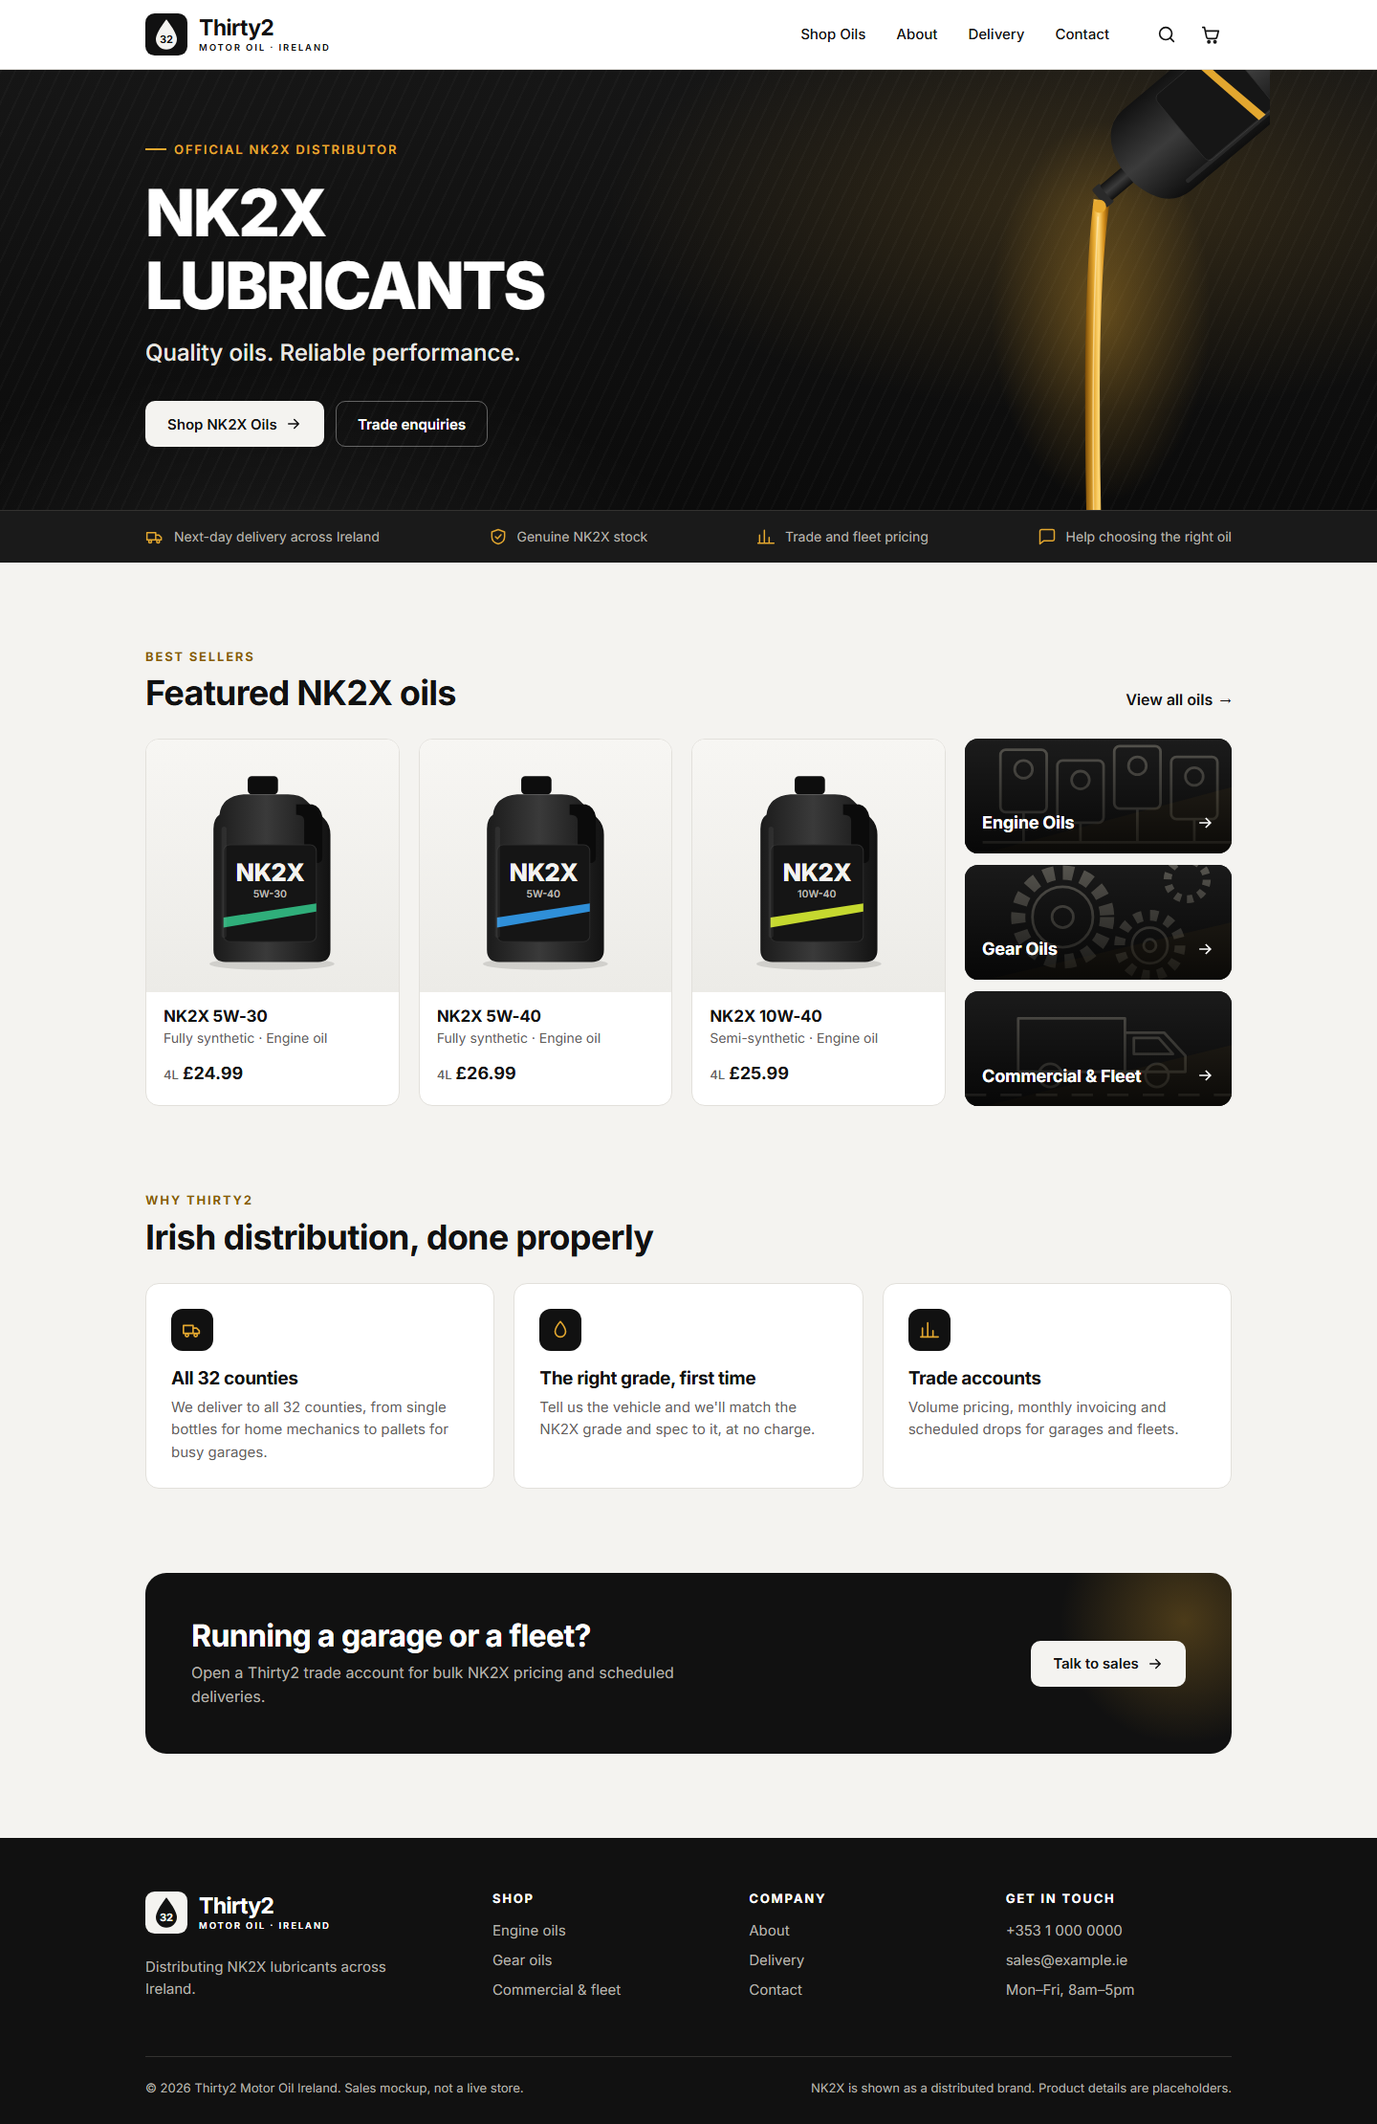
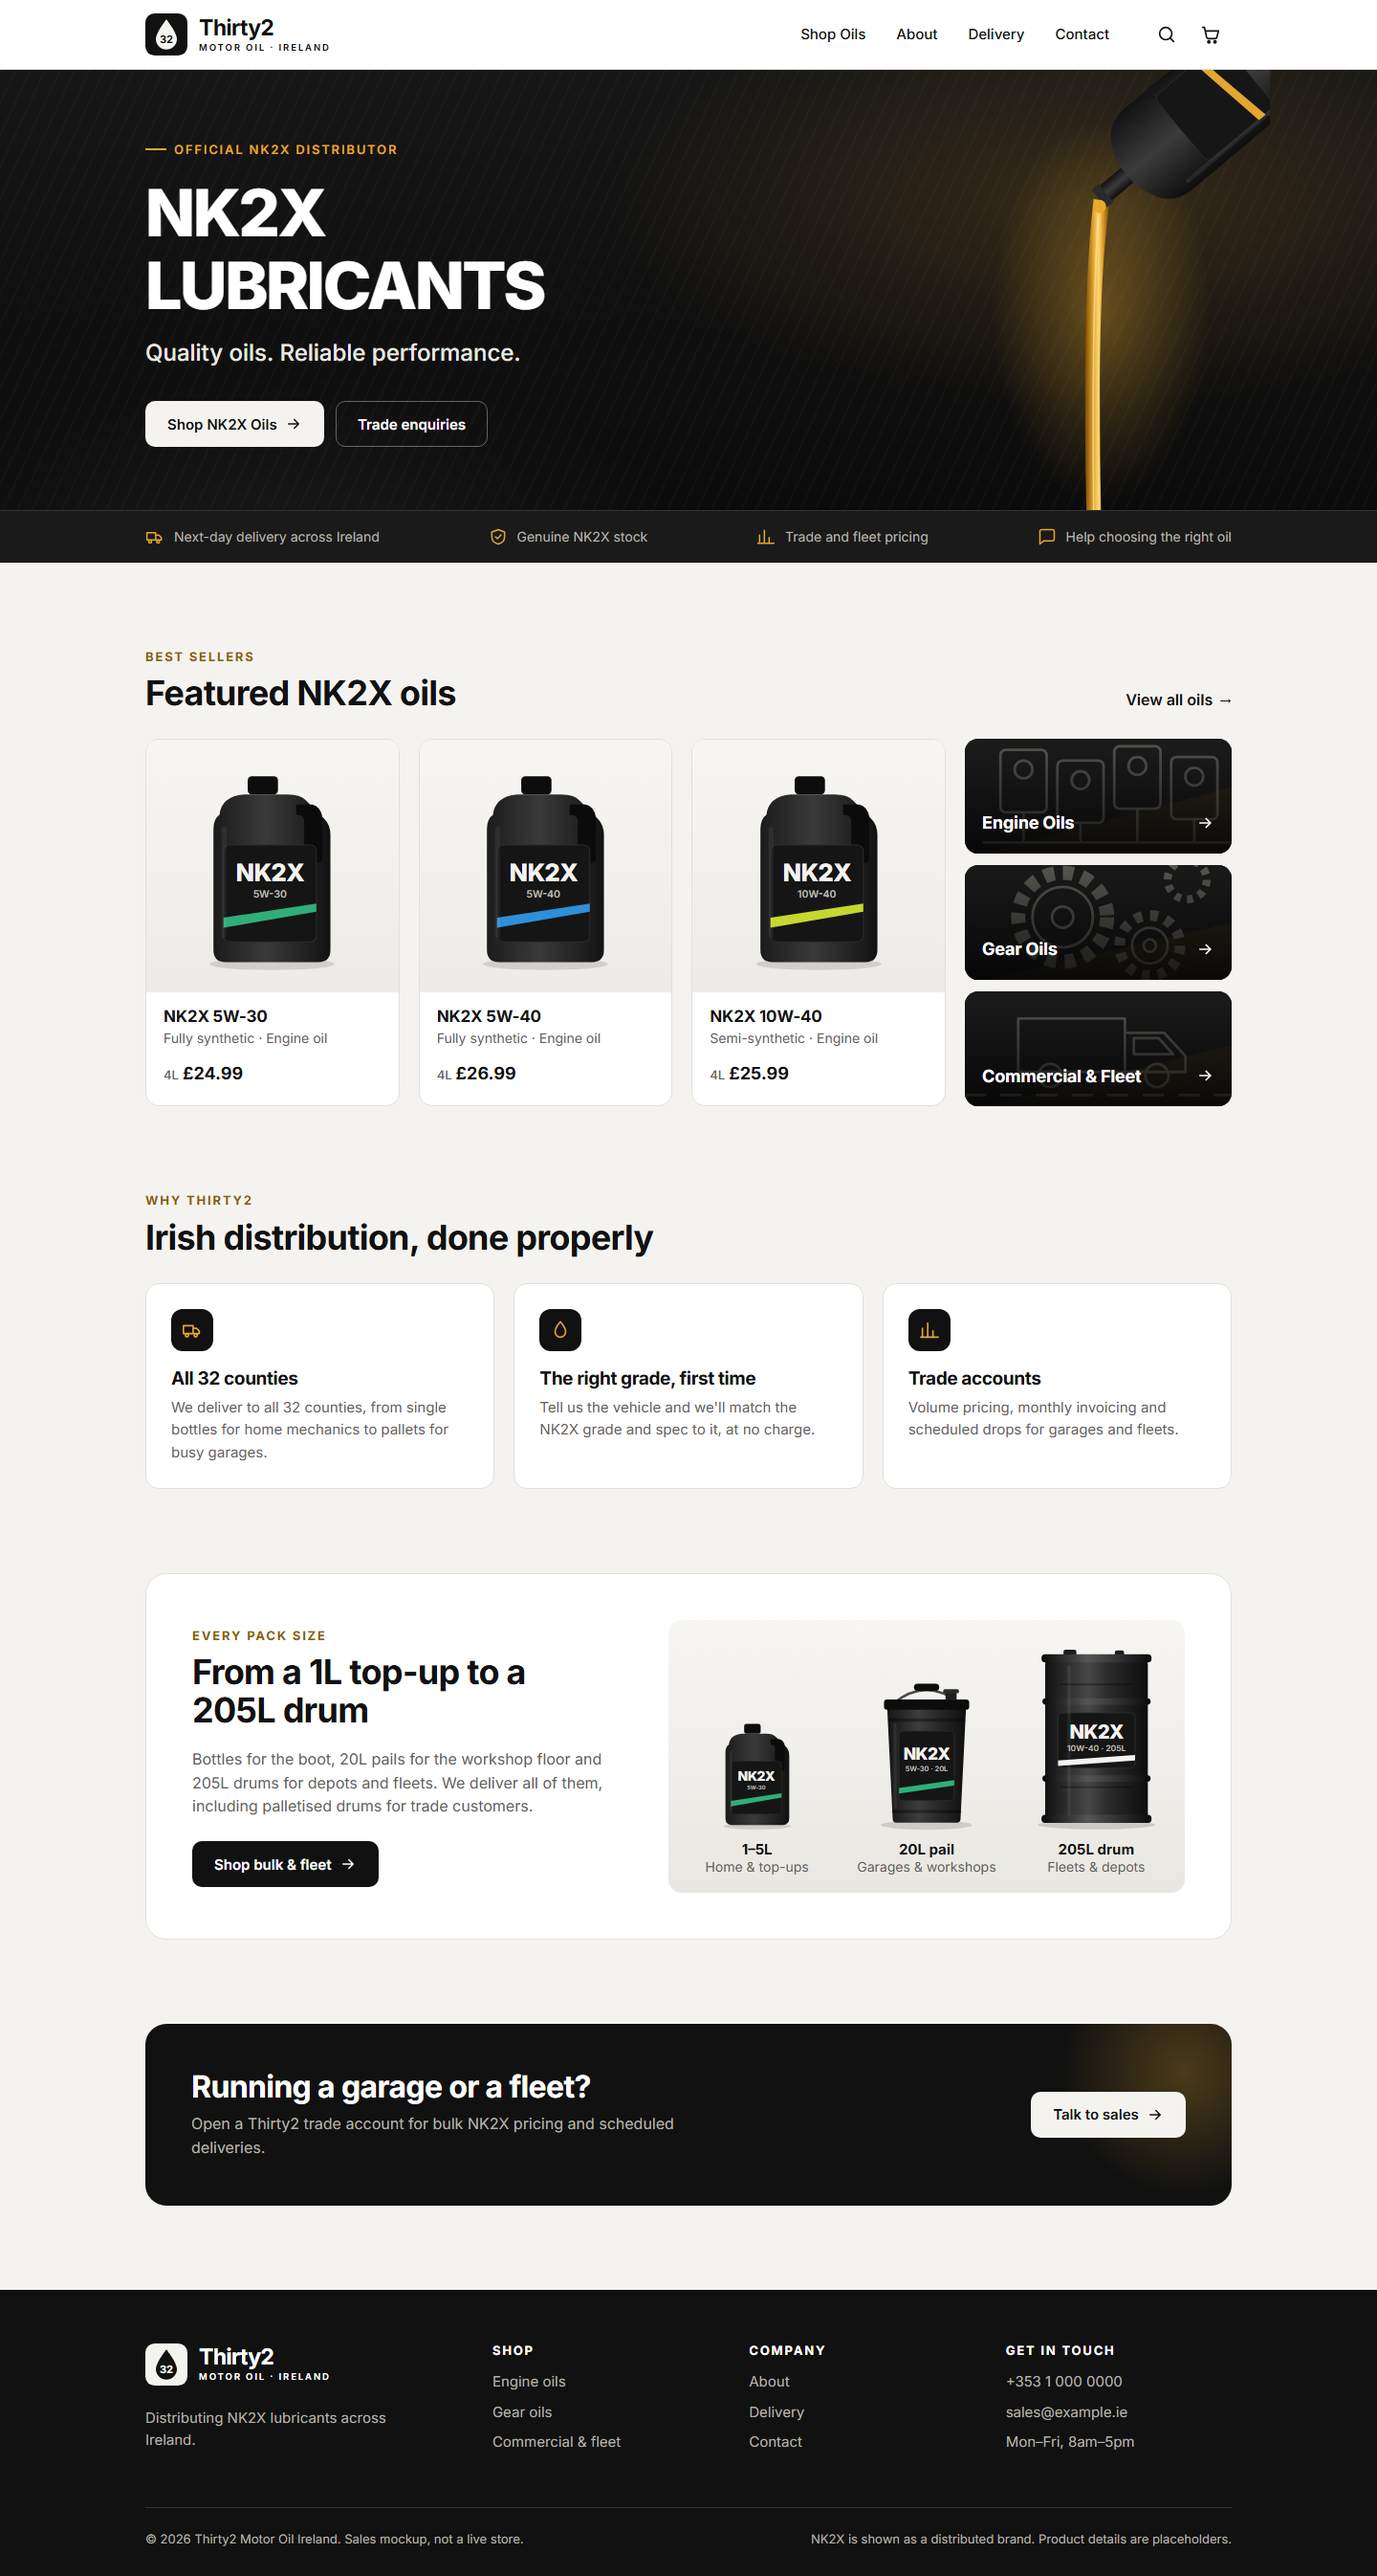
Add 20L pail and 205L drum illustrations
Original SVG pail and drum art alongside the existing jug. Product
pages swap the container image with the selected pack size, the cart
shows the matching container, the fleet oil card shows a drum, and the
homepage gains a "1L to 205L" pack-size lineup. Prices now use a
thousands separator (£1,149.00).

Changed region(s): [[0.0, 0.0, 1.0, 0.9946]]

diff --git a/js/products.js b/js/products.js
@@ -76,7 +76,7 @@
     },
     {
       id: 'nk2x-10w40-hd', name: 'NK2X Fleet 10W-40', viscosity: '10W-40', type: 'Fully synthetic',
-      category: 'Commercial & fleet', accent: '#f4f3f0',
+      category: 'Commercial & fleet', accent: '#f4f3f0', cardArt: '205L',
       packs: [{ size: '5L', price: 34.99 }, { size: '20L', price: 124.99 }, { size: '205L', price: 1149.0 }],
       specs: ['ACEA E6', 'Euro VI', 'Heavy duty'],
       blurb: 'Heavy-duty synthetic for vans, trucks and mixed commercial fleets.'
@@ -84,7 +84,7 @@
   ];
 
   function fmt(n) {
-    return '£' + n.toFixed(2);
+    return '£' + n.toLocaleString('en-GB', { minimumFractionDigits: 2, maximumFractionDigits: 2 });
   }
 
   function fromPrice(p) {
@@ -115,6 +115,79 @@
       '</svg>';
   }
 
+  function a11y(p, opts, what) {
+    return opts.decorative ? 'aria-hidden="true" focusable="false"'
+      : 'role="img" aria-label="' + p.name + ' ' + what + ' (illustration)"';
+  }
+
+  /* 20L pail: tapered steel pail with lid, wire handle and pour spout. */
+  function pailSVG(p, opts) {
+    opts = opts || {};
+    var uid = p.id + (opts.uid || '') + '-pail';
+    return '' +
+      '<svg class="jug pail" viewBox="0 0 160 200" ' + a11y(p, opts, '20 litre pail') + '>' +
+        '<defs>' +
+          '<linearGradient id="pb-' + uid + '" x1="0" x2="1">' +
+            '<stop offset="0" stop-color="#151515"/><stop offset=".4" stop-color="#3d3d3d"/><stop offset=".6" stop-color="#2c2c2c"/><stop offset="1" stop-color="#0f0f0f"/>' +
+          '</linearGradient>' +
+        '</defs>' +
+        '<ellipse cx="80" cy="193" rx="58" ry="6" fill="#000" opacity=".13"/>' +
+        '<path d="M32 44 Q80 0 128 44" fill="none" stroke="#4a4a4a" stroke-width="3"/>' +
+        '<rect x="64" y="14" width="32" height="9" rx="4.5" fill="#0d0d0d"/>' +
+        '<path d="M30 44 H130 L123 185 Q123 190 118 190 H42 Q37 190 37 185 Z" fill="url(#pb-' + uid + ')"/>' +
+        '<rect x="26" y="34" width="108" height="13" rx="4" fill="#0c0c0c"/>' +
+        '<rect x="104" y="24" width="14" height="11" rx="2" fill="#1e1e1e"/>' +
+        '<rect x="101" y="21" width="20" height="5" rx="2" fill="#2a2a2a"/>' +
+        '<rect x="31" y="58" width="98" height="4" rx="2" fill="#000" opacity=".35"/>' +
+        '<rect x="36" y="174" width="88" height="4" rx="2" fill="#000" opacity=".35"/>' +
+        '<rect x="45" y="74" width="70" height="88" rx="5" fill="#151515" stroke="#2c2c2c"/>' +
+        '<text x="80" y="110" text-anchor="middle" font-family="Inter, Arial, sans-serif" font-weight="800" font-size="21" fill="#f4f3f0" letter-spacing="-.5">NK2X</text>' +
+        '<text x="80" y="125" text-anchor="middle" font-family="Inter, Arial, sans-serif" font-weight="600" font-size="9" fill="#bdbab3">' + p.viscosity + ' · 20L</text>' +
+        '<path d="M45 146 L115 136 V143 L45 153Z" fill="' + p.accent + '"/>' +
+        '<rect x="38" y="64" width="4" height="108" rx="2" fill="#fff" opacity=".07"/>' +
+      '</svg>';
+  }
+
+  /* 205L drum: steel barrel with top/bottom chimes, rolling hoops and bungs. */
+  function drumSVG(p, opts) {
+    opts = opts || {};
+    var uid = p.id + (opts.uid || '') + '-drum';
+    return '' +
+      '<svg class="jug drum" viewBox="0 0 160 200" ' + a11y(p, opts, '205 litre drum') + '>' +
+        '<defs>' +
+          '<linearGradient id="db-' + uid + '" x1="0" x2="1">' +
+            '<stop offset="0" stop-color="#121212"/><stop offset=".22" stop-color="#2e2e2e"/><stop offset=".42" stop-color="#474747"/><stop offset=".62" stop-color="#2a2a2a"/><stop offset="1" stop-color="#0d0d0d"/>' +
+          '</linearGradient>' +
+          '<linearGradient id="dh-' + uid + '" x1="0" x2="1">' +
+            '<stop offset="0" stop-color="#0a0a0a"/><stop offset=".42" stop-color="#555"/><stop offset="1" stop-color="#0a0a0a"/>' +
+          '</linearGradient>' +
+        '</defs>' +
+        '<ellipse cx="80" cy="194" rx="64" ry="5" fill="#000" opacity=".14"/>' +
+        '<rect x="44" y="3" width="14" height="7" rx="2" fill="#1c1c1c"/>' +
+        '<rect x="100" y="4" width="10" height="6" rx="2" fill="#1c1c1c"/>' +
+        '<rect x="24" y="12" width="112" height="178" rx="7" fill="url(#db-' + uid + ')"/>' +
+        '<rect x="20" y="8" width="120" height="9" rx="4" fill="url(#dh-' + uid + ')"/>' +
+        '<rect x="20" y="183" width="120" height="9" rx="4" fill="url(#dh-' + uid + ')"/>' +
+        '<rect x="21" y="56" width="118" height="7" rx="3.5" fill="url(#dh-' + uid + ')"/>' +
+        '<rect x="21" y="140" width="118" height="7" rx="3.5" fill="url(#dh-' + uid + ')"/>' +
+        '<rect x="38" y="72" width="84" height="60" rx="5" fill="#151515" stroke="#2c2c2c"/>' +
+        '<text x="80" y="100" text-anchor="middle" font-family="Inter, Arial, sans-serif" font-weight="800" font-size="21" fill="#f4f3f0" letter-spacing="-.5">NK2X</text>' +
+        '<text x="80" y="114" text-anchor="middle" font-family="Inter, Arial, sans-serif" font-weight="600" font-size="9" fill="#bdbab3">' + p.viscosity + ' · 205L</text>' +
+        '<path d="M38 124 L122 118 V124 L38 130Z" fill="' + p.accent + '"/>' +
+        '<rect x="48" y="20" width="4" height="164" rx="2" fill="#fff" opacity=".07"/>' +
+        '<rect x="40" y="152" width="80" height="2" rx="1" fill="#000" opacity=".3"/>' +
+        '<rect x="40" y="40" width="80" height="2" rx="1" fill="#000" opacity=".3"/>' +
+      '</svg>';
+  }
+
+  /* Pick the right container for a pack size: jug up to 5L, pail for 20L, drum for 205L. */
+  function packArtSVG(p, size, opts) {
+    var l = parseFloat(size) || 0;
+    if (l >= 200) return drumSVG(p, opts);
+    if (l >= 20) return pailSVG(p, opts);
+    return jugSVG(p, opts);
+  }
+
   /* Product card used on the home page and the shop grid. */
   function cardHTML(p, opts) {
     opts = opts || {};
@@ -122,7 +195,7 @@
     var tag = opts.headingLevel || 'h3';
     var chips = opts.chips ? '<ul class="chips" aria-label="Specifications">' + p.specs.map(function (s) { return '<li>' + s + '</li>'; }).join('') + '</ul>' : '';
     return '<article class="p-card">' +
-      '<div class="p-card-media">' + jugSVG(p, { decorative: true, uid: opts.uid || '' }) + '</div>' +
+      '<div class="p-card-media">' + packArtSVG(p, p.cardArt || pack.size, { decorative: true, uid: opts.uid || '' }) + '</div>' +
       '<div class="p-card-body">' +
         '<' + tag + ' class="p-card-title"><a href="product.html?id=' + p.id + '">' + p.name + '</a></' + tag + '>' +
         '<p class="p-card-type">' + p.type + ' · ' + p.category + '</p>' +
@@ -138,6 +211,9 @@
   window.Thirty2.fmt = fmt;
   window.Thirty2.fromPrice = fromPrice;
   window.Thirty2.jugSVG = jugSVG;
+  window.Thirty2.pailSVG = pailSVG;
+  window.Thirty2.drumSVG = drumSVG;
+  window.Thirty2.packArtSVG = packArtSVG;
   window.Thirty2.getProduct = function (id) {
     return PRODUCTS.filter(function (p) { return p.id === id; })[0];
   };

diff --git a/index.html b/index.html
@@ -219,6 +219,28 @@
       </div>
     </section>
 
+    <!-- ===== Pack sizes: 1L to 205L ===== -->
+    <section class="section" style="padding-top:0" aria-labelledby="packs-title">
+      <div class="wrap">
+        <div class="packs">
+          <div class="packs-copy">
+            <p class="eyebrow">Every pack size</p>
+            <h2 id="packs-title">From a 1L top-up to a 205L drum</h2>
+            <p>Bottles for the boot, 20L pails for the workshop floor and 205L drums for depots and fleets. We deliver all of them, including palletised drums for trade customers.</p>
+            <a class="btn btn-dark" href="shop.html?cat=commercial">
+              Shop bulk &amp; fleet
+              <svg viewBox="0 0 24 24" aria-hidden="true"><path d="M5 12h14M13 6l6 6-6 6"/></svg>
+            </a>
+          </div>
+          <ul class="packs-line" id="packs-line">
+            <li class="pack pack-jug"><div class="pack-art" data-art="nk2x-5w30|4L"></div><p><strong>1–5L</strong><span>Home &amp; top-ups</span></p></li>
+            <li class="pack pack-pail"><div class="pack-art" data-art="nk2x-5w30|20L"></div><p><strong>20L pail</strong><span>Garages &amp; workshops</span></p></li>
+            <li class="pack pack-drum"><div class="pack-art" data-art="nk2x-10w40-hd|205L"></div><p><strong>205L drum</strong><span>Fleets &amp; depots</span></p></li>
+          </ul>
+        </div>
+      </div>
+    </section>
+
     <section class="section" style="padding-top:0" aria-labelledby="cta-title">
       <div class="wrap">
         <div class="cta-band">
@@ -290,6 +312,10 @@
       var el = document.getElementById('featured');
       el.innerHTML = T.products.filter(function (p) { return p.featured; })
         .map(function (p) { return T.cardHTML(p, { uid: '-f' }); }).join('');
+      document.querySelectorAll('[data-art]').forEach(function (n, i) {
+        var a = n.getAttribute('data-art').split('|');
+        n.innerHTML = T.packArtSVG(T.getProduct(a[0]), a[1], { decorative: true, uid: '-pk' + i });
+      });
     })();
   </script>
 </body>

diff --git a/css/styles.css b/css/styles.css
@@ -577,3 +577,31 @@ button, input, select, textarea { font: inherit; color: inherit; }
   .cutoffs li { flex-direction: column; gap: 2px; }
   .cutoffs strong { text-align: left; }
 }
+
+/* ---------- Pack sizes lineup (home) + art swap (product) ---------- */
+.packs {
+  display: grid; grid-template-columns: .9fr 1.1fr; align-items: center; gap: clamp(24px, 4vw, 56px);
+  background: var(--white); border: 1px solid var(--line); border-radius: var(--radius-lg);
+  padding: clamp(24px, 4vw, 48px);
+}
+.packs-copy h2 { font-size: clamp(26px, 3.2vw, 36px); }
+.packs-copy p:not(.eyebrow) { color: var(--grey-500); max-width: 46ch; margin-bottom: 24px; }
+.packs-line {
+  display: flex; align-items: flex-end; justify-content: center; gap: clamp(8px, 2vw, 24px);
+  list-style: none; margin: 0; padding: 28px 16px 0;
+  background: linear-gradient(180deg, #f7f6f3, #e9e7e2); border-radius: var(--radius);
+}
+.pack { display: flex; flex-direction: column; align-items: center; text-align: center; flex: 1; }
+.pack-art { width: 100%; }
+.pack-art .jug { width: 100%; height: auto; margin: 0 auto; }
+.pack-jug .pack-art { max-width: 92px; }
+.pack-pail .pack-art { max-width: 132px; }
+.pack-drum .pack-art { max-width: 176px; }
+.pack p { margin: 10px 0 18px; line-height: 1.3; font-size: 14px; }
+.pack strong { display: block; font-size: 15px; }
+.pack span { color: var(--grey-500); }
+@media (max-width: 899px) { .packs { grid-template-columns: 1fr; } }
+@media (max-width: 420px) { .pack p { font-size: 12.5px; } .pack strong { font-size: 13.5px; } }
+
+.pdp-media.is-swapping .jug { animation: art-in .28s ease; }
+@keyframes art-in { from { opacity: 0; transform: translateY(6px) scale(.97); } to { opacity: 1; transform: none; } }

diff --git a/js/product.js b/js/product.js
@@ -74,7 +74,7 @@
   root.innerHTML =
     '<div class="wrap">' +
       '<article class="pdp" aria-labelledby="pdp-title">' +
-        '<div class="pdp-media">' + T.jugSVG(p, { uid: '-pdp' }) + '</div>' +
+        '<div class="pdp-media" id="pdp-media">' + T.packArtSVG(p, def.size, { uid: '-pdp' }) + '</div>' +
         '<div class="pdp-info">' +
           '<p class="eyebrow"><a href="shop.html?cat=' + CAT_PARAM[p.category] + '">' + p.category + '</a></p>' +
           '<h1 id="pdp-title" class="pdp-title">' + p.name + '</h1>' +
@@ -152,6 +152,11 @@
       var k = currentPack();
       priceEl.textContent = T.fmt(k.price);
       unitEl.textContent = k.size + ' · ' + perLitre(k);
+      var media = document.getElementById('pdp-media');
+      media.innerHTML = T.packArtSVG(p, k.size, { uid: '-pdp' });
+      media.classList.remove('is-swapping');
+      void media.offsetWidth; /* restart the fade-in */
+      media.classList.add('is-swapping');
     }
     if (e.target === qty) clampQty();
   });

diff --git a/js/main.js b/js/main.js
@@ -111,7 +111,7 @@
         var p = T.getProduct(i.id);
         if (!p) return '';
         return '<li class="cart-line">' +
-          '<div class="cart-thumb">' + T.jugSVG(p, { decorative: true, uid: '-c' + idx }) + '</div>' +
+          '<div class="cart-thumb">' + T.packArtSVG(p, i.size, { decorative: true, uid: '-c' + idx }) + '</div>' +
           '<div class="cart-info">' +
             '<p class="cart-name">' + p.name + '</p>' +
             '<p class="cart-meta">' + i.size + ' · ' + T.fmt(priceFor(i)) + '</p>' +
